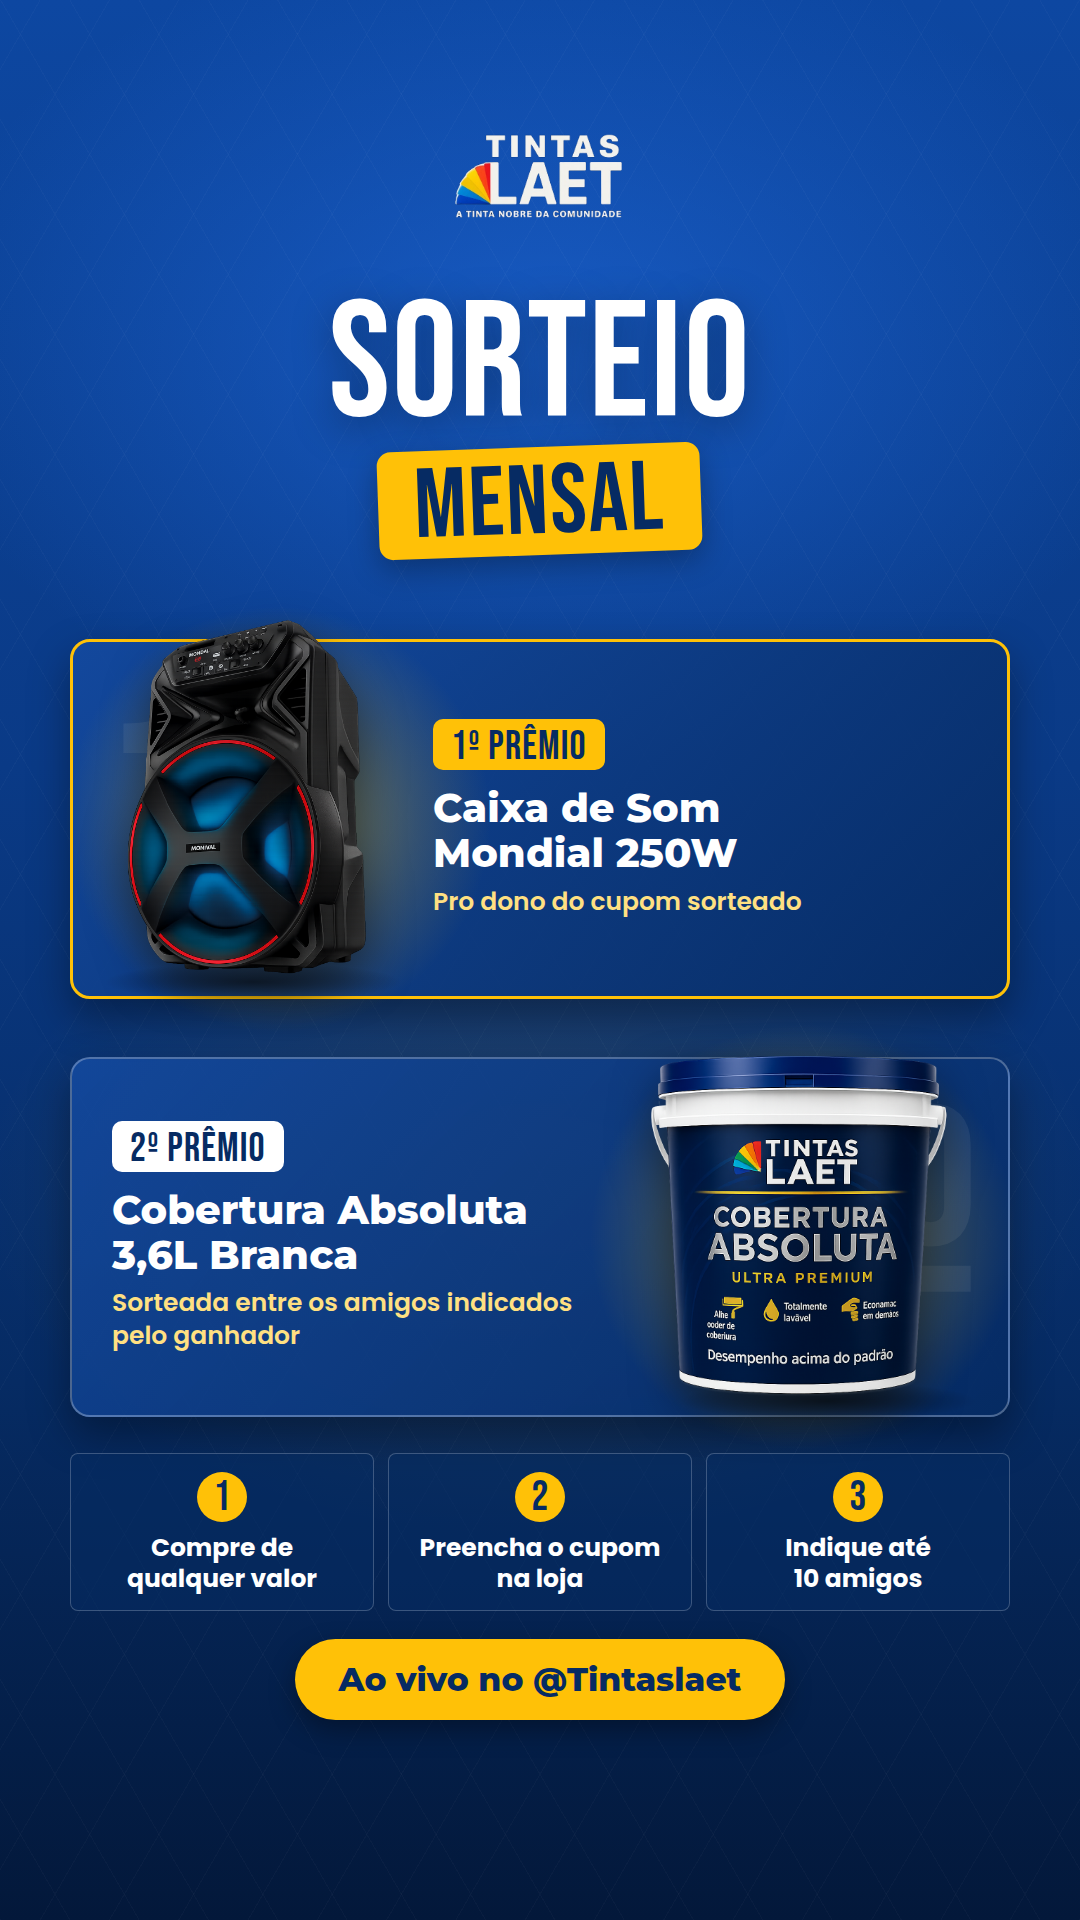
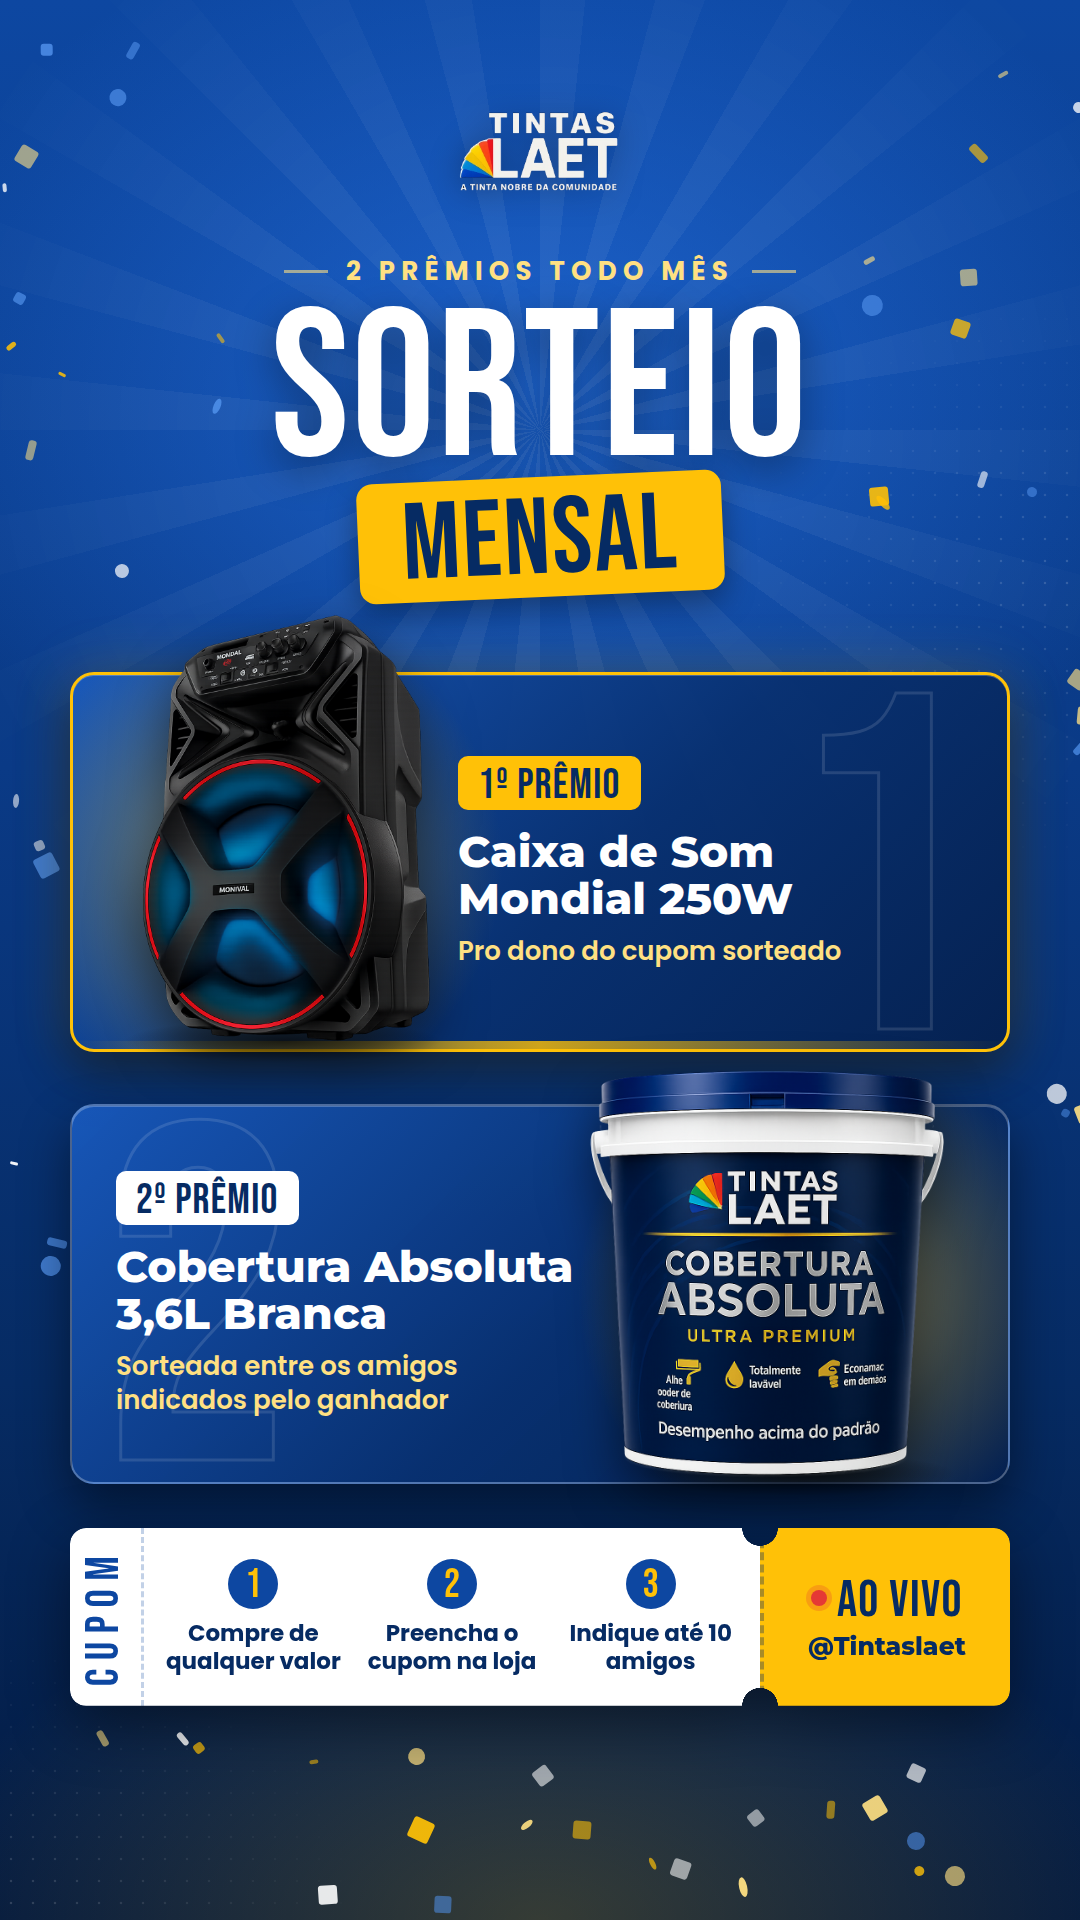
Story do sorteio: design mais preenchido (raios, confete, cupom com canhoto)
Claude-Session: https://claude.ai/code/session_01GERzdKqRwXMVg2X3B1iW2A

diff --git a/marketing/stories/2026-10/06-sorteio-premios/story.html b/marketing/stories/2026-10/06-sorteio-premios/story.html
@@ -12,73 +12,127 @@
 @font-face { font-family:'Poppins'; font-weight:700; src:url('fonts/poppins-latin-700-normal.woff2') format('woff2'); }
 *, *::before, *::after { margin:0; padding:0; box-sizing:border-box; }
 body { background:#020A18; }
-.slide { width:1080px; height:1920px; position:relative; overflow:hidden; color:#fff; display:flex; flex-direction:column; align-items:center; text-align:center;
+.slide { width:1080px; height:1920px; position:relative; overflow:hidden; color:#fff;
   background:
-    radial-gradient(ellipse 900px 600px at 50% 18%, rgba(33,110,230,.55) 0%, rgba(13,71,161,0) 70%),
-    radial-gradient(ellipse 800px 500px at 50% 62%, rgba(255,193,7,.12) 0%, rgba(255,193,7,0) 70%),
-    linear-gradient(180deg, #0D47A1 0%, #0A3A86 40%, #062B63 72%, #03183A 100%); }
-.slide::before { content:''; position:absolute; inset:0; z-index:1;
-  background-image: repeating-linear-gradient(60deg, rgba(255,255,255,.025) 0, rgba(255,255,255,.025) 1px, transparent 1px, transparent 60px),
-                   repeating-linear-gradient(-60deg, rgba(255,255,255,.025) 0, rgba(255,255,255,.025) 1px, transparent 1px, transparent 60px); }
-.slide > * { position:relative; z-index:2; }
-.logo { height:180px; object-fit:contain; margin-top:90px; }
-h1 { font:400 165px/.9 'Bebas Neue',sans-serif; color:#fff; margin-top:22px; text-shadow:0 10px 40px rgba(0,0,0,.35); letter-spacing:.01em; }
-.chip { display:inline-block; margin-top:6px; background:#FFC107; color:#062B63; font:400 98px/1 'Bebas Neue',sans-serif; padding:8px 36px 2px; border-radius:14px; transform:rotate(-2deg); box-shadow:0 10px 30px rgba(0,0,0,.3); letter-spacing:.02em; }
+    radial-gradient(ellipse 950px 700px at 50% 20%, rgba(40,120,240,.6) 0%, rgba(13,71,161,0) 70%),
+    radial-gradient(ellipse 900px 520px at 50% 100%, rgba(255,193,7,.20) 0%, rgba(255,193,7,0) 70%),
+    linear-gradient(180deg, #0D47A1 0%, #0A3A86 40%, #062B63 72%, #031A40 100%); }
+/* raios atrás do título */
+.rays { position:absolute; left:50%; top:430px; width:1900px; height:1900px; transform:translate(-50%,-50%); z-index:1;
+  background:repeating-conic-gradient(from 0deg, rgba(255,255,255,.075) 0deg 6deg, rgba(255,255,255,0) 6deg 15deg);
+  -webkit-mask-image:radial-gradient(circle, #000 0%, rgba(0,0,0,.6) 25%, transparent 50%); mask-image:radial-gradient(circle, #000 0%, rgba(0,0,0,.6) 25%, transparent 50%); }
+.dots { position:absolute; inset:0; z-index:1; opacity:.18;
+  background-image:radial-gradient(rgba(255,255,255,.9) 1.4px, transparent 1.6px); background-size:22px 22px;
+  -webkit-mask-image:radial-gradient(ellipse 520px 420px at 0% 100%, #000 0%, transparent 70%), radial-gradient(ellipse 520px 420px at 100% 30%, #000 0%, transparent 70%);
+          mask-image:radial-gradient(ellipse 520px 420px at 0% 100%, #000 0%, transparent 70%), radial-gradient(ellipse 520px 420px at 100% 30%, #000 0%, transparent 70%); }
+.cf { position:absolute; z-index:2; }
+.abs { position:absolute; z-index:5; }
 
-.prizes { width:940px; margin-top:84px; display:flex; flex-direction:column; gap:58px; }
-.p { position:relative; height:360px; border-radius:20px; background:linear-gradient(135deg, rgba(20,74,160,.85), rgba(6,43,99,.9)); border:2px solid rgba(255,255,255,.28); box-shadow:0 18px 40px rgba(0,0,0,.35); text-align:left; }
-.p.main { border:3px solid #FFC107; }
-.p .ghost { position:absolute; top:10px; font:400 380px/1 'Bebas Neue',sans-serif; color:rgba(255,255,255,.07); pointer-events:none; }
-.p .ring { position:absolute; top:50%; width:430px; height:430px; border-radius:50%; transform:translateY(-50%);
-  background:radial-gradient(circle, rgba(255,193,7,.5) 0%, rgba(255,193,7,.16) 45%, rgba(255,193,7,0) 70%); }
-.p .floor { position:absolute; bottom:-6px; width:300px; height:40px; border-radius:50%; background:radial-gradient(ellipse, rgba(0,0,0,.55) 0%, rgba(0,0,0,0) 70%); }
-.p img { position:absolute; filter:drop-shadow(0 18px 22px rgba(0,0,0,.5)); }
-.p .tx { position:absolute; top:0; bottom:0; display:flex; flex-direction:column; justify-content:center; }
-.tag { align-self:flex-start; background:#FFC107; color:#062B63; font:400 40px/1 'Bebas Neue',sans-serif; padding:8px 18px 3px; border-radius:10px; letter-spacing:.03em; }
-.p.sec .tag { background:#fff; }
-.nm { font:800 40px/1.12 'Montserrat',sans-serif; color:#fff; margin-top:16px; }
-.ds { font:600 25px/1.3 'Poppins',sans-serif; color:#FFE082; margin-top:10px; }
-/* prêmio 1: produto à esquerda */
-.p.main .ghost { left:20px; } .p.main .ring { left:-10px; } .p.main .floor { left:30px; }
-.p.main img { left:30px; top:-72px; height:432px; }
-.p.main .tx { left:360px; right:34px; }
-/* prêmio 2: produto à direita */
-.p.sec .ghost { right:24px; } .p.sec .ring { right:-10px; } .p.sec .floor { right:30px; }
-.p.sec img { right:26px; top:-14px; height:360px; }
-.p.sec .tx { left:40px; right:400px; }
+.top { left:0; right:0; top:70px; display:flex; flex-direction:column; align-items:center; text-align:center; }
+.top .logo { height:170px; object-fit:contain; filter:drop-shadow(0 4px 16px rgba(0,0,0,.35)); }
+.ey { font:700 26px/1 'Poppins',sans-serif; color:#FFE082; letter-spacing:.24em; text-transform:uppercase; display:flex; align-items:center; gap:18px; margin-top:18px; }
+.ey::before,.ey::after { content:''; width:44px; height:3px; background:rgba(255,224,130,.6); }
+h1 { font:400 210px/.86 'Bebas Neue',sans-serif; color:#fff; margin-top:18px; letter-spacing:.01em; text-shadow:0 12px 40px rgba(0,0,0,.4); }
+.chip { margin-top:-6px; background:#FFC107; color:#062B63; font:400 108px/1 'Bebas Neue',sans-serif; padding:10px 44px 2px; border-radius:16px; transform:rotate(-2.5deg); box-shadow:0 12px 30px rgba(0,0,0,.35); letter-spacing:.02em; }
 
-.steps { width:940px; margin-top:36px; display:grid; grid-template-columns:repeat(3,1fr); gap:14px; }
-.st { background:rgba(6,43,99,.55); border:1px solid rgba(255,255,255,.22); border-radius:8px; padding:18px 14px 16px; }
-.st .n { width:50px; height:50px; margin:0 auto; border-radius:50%; background:#FFC107; color:#062B63; font:400 42px/52px 'Bebas Neue',sans-serif; }
-.st .t { font:700 25px/1.25 'Poppins',sans-serif; color:#fff; margin-top:10px; }
-.cta { margin-top:28px; background:#FFC107; color:#062B63; font:800 33px/1 'Montserrat',sans-serif; padding:24px 44px; border-radius:50px; box-shadow:0 10px 26px rgba(0,0,0,.35); white-space:nowrap; }
+.p { left:70px; right:70px; height:380px; border-radius:24px; overflow:visible;
+  background:linear-gradient(135deg, rgba(25,90,190,.92) 0%, rgba(8,48,112,.95) 55%, rgba(5,33,80,.97) 100%);
+  border:2px solid rgba(255,255,255,.28); box-shadow:0 22px 50px rgba(0,0,0,.45), inset 0 1px 0 rgba(255,255,255,.25); }
+.p.main { top:672px; border:3px solid #FFC107; box-shadow:0 22px 50px rgba(0,0,0,.45), 0 0 60px rgba(255,193,7,.18), inset 0 1px 0 rgba(255,255,255,.25); }
+.p.sec { top:1104px; }
+.clip { position:absolute; inset:0; border-radius:22px; overflow:hidden; }
+.ghost { position:absolute; top:-30px; font:400 480px/1 'Bebas Neue',sans-serif; color:transparent; -webkit-text-stroke:3px rgba(255,255,255,.12); }
+.spot { position:absolute; top:50%; width:520px; height:520px; border-radius:50%; transform:translateY(-50%);
+  background:radial-gradient(circle, rgba(255,210,80,.55) 0%, rgba(255,193,7,.2) 38%, rgba(255,193,7,0) 68%); }
+.stripe { position:absolute; bottom:0; height:8px; left:0; right:0; background:linear-gradient(90deg, rgba(255,193,7,0), rgba(255,193,7,.8), rgba(255,193,7,0)); }
+.floor { position:absolute; width:320px; height:44px; border-radius:50%; background:radial-gradient(ellipse, rgba(0,0,0,.6) 0%, rgba(0,0,0,0) 70%); }
+.p img { position:absolute; z-index:3; filter:drop-shadow(0 22px 26px rgba(0,0,0,.55)); }
+.tx { position:absolute; top:0; bottom:0; display:flex; flex-direction:column; justify-content:center; z-index:4; text-align:left; }
+.tag { align-self:flex-start; background:#FFC107; color:#062B63; font:400 42px/1 'Bebas Neue',sans-serif; padding:9px 20px 3px; border-radius:10px; letter-spacing:.03em; }
+.sec .tag { background:#fff; }
+.nm { font:800 44px/1.08 'Montserrat',sans-serif; color:#fff; margin-top:18px; }
+.ds { font:600 26px/1.3 'Poppins',sans-serif; color:#FFE082; margin-top:12px; }
+
+.main .ghost { right:30px; } .main .spot { left:-80px; } .main .floor { left:50px; bottom:-14px; }
+.main img { left:40px; top:-120px; height:520px; }
+.main .tx { left:385px; right:30px; }
+.sec .ghost { left:30px; } .sec .spot { right:-80px; } .sec .floor { right:50px; bottom:-14px; }
+.sec img { right:22px; top:-48px; height:430px; }
+.sec .tx { left:44px; right:420px; }
+
+/* cupom */
+.ticket { left:70px; right:70px; top:1528px; height:178px; display:flex; filter:drop-shadow(0 18px 30px rgba(0,0,0,.45)); }
+.tk-main { flex:1; background:#fff; border-radius:16px 0 0 16px; display:flex; align-items:center; position:relative;
+  -webkit-mask:radial-gradient(circle 18px at 100% 0, transparent 98%, #000) top right/100% 51% no-repeat, radial-gradient(circle 18px at 100% 100%, transparent 98%, #000) bottom right/100% 51% no-repeat;
+          mask:radial-gradient(circle 18px at 100% 0, transparent 98%, #000) top right/100% 51% no-repeat, radial-gradient(circle 18px at 100% 100%, transparent 98%, #000) bottom right/100% 51% no-repeat; }
+.tk-label { width:74px; height:100%; display:flex; align-items:center; justify-content:center; border-right:3px dashed rgba(13,71,161,.25); }
+.tk-label span { transform:rotate(-90deg); font:400 46px/1 'Bebas Neue',sans-serif; color:#0D47A1; letter-spacing:.18em; white-space:nowrap; }
+.tk-steps { flex:1; display:grid; grid-template-columns:repeat(3,1fr); padding:0 10px; }
+.tk-st { text-align:center; padding:0 6px; }
+.tk-st .n { width:50px; height:50px; margin:0 auto; border-radius:50%; background:#0D47A1; color:#FFC107; font:400 40px/53px 'Bebas Neue',sans-serif; }
+.tk-st .t { font:700 23px/1.22 'Poppins',sans-serif; color:#062B63; margin-top:10px; }
+.tk-stub { width:250px; background:#FFC107; border-radius:0 16px 16px 0; border-left:4px dashed rgba(6,43,99,.35); display:flex; flex-direction:column; align-items:center; justify-content:center; text-align:center;
+  -webkit-mask:radial-gradient(circle 18px at 0 0, transparent 98%, #000) top left/100% 51% no-repeat, radial-gradient(circle 18px at 0 100%, transparent 98%, #000) bottom left/100% 51% no-repeat;
+          mask:radial-gradient(circle 18px at 0 0, transparent 98%, #000) top left/100% 51% no-repeat, radial-gradient(circle 18px at 0 100%, transparent 98%, #000) bottom left/100% 51% no-repeat; }
+.live { display:flex; align-items:center; gap:10px; font:400 50px/1 'Bebas Neue',sans-serif; color:#062B63; letter-spacing:.03em; }
+.live i { width:16px; height:16px; border-radius:50%; background:#E53935; box-shadow:0 0 0 5px rgba(229,57,53,.25); margin-top:-6px; }
+.handle { font:800 25px/1 'Montserrat',sans-serif; color:#062B63; margin-top:8px; }
 </style>
 </head>
 <body>
 <div class="slide">
-  <img class="logo" src="../../../../identidade/logotipo branco-remove-bg-io.png" alt="Tintas Laet">
-  <h1>SORTEIO</h1>
-  <div class="chip">MENSAL</div>
+  <div class="rays"></div>
+  <div class="dots"></div>
+  <div id="confete"></div>
 
-  <div class="prizes">
-    <div class="p main">
-      <div class="ghost">1º</div><div class="ring"></div><div class="floor"></div>
-      <img src="caixa.png" alt="Caixa de Som Mondial 250W">
-      <div class="tx"><div class="tag">1º PRÊMIO</div><div class="nm">Caixa de Som<br>Mondial 250W</div><div class="ds">Pro dono do cupom sorteado</div></div>
-    </div>
-    <div class="p sec">
-      <div class="ghost">2º</div><div class="ring"></div><div class="floor"></div>
-      <img src="tinta.png" alt="Tinta Cobertura Absoluta 3,6L">
-      <div class="tx"><div class="tag">2º PRÊMIO</div><div class="nm">Cobertura Absoluta<br>3,6L Branca</div><div class="ds">Sorteada entre os amigos indicados pelo ganhador</div></div>
-    </div>
+  <div class="abs top">
+    <img class="logo" src="../../../../identidade/logotipo branco-remove-bg-io.png" alt="Tintas Laet">
+    <div class="ey">2 prêmios todo mês</div>
+    <h1>SORTEIO</h1>
+    <div class="chip">MENSAL</div>
   </div>
 
-  <div class="steps">
-    <div class="st"><div class="n">1</div><div class="t">Compre de<br>qualquer valor</div></div>
-    <div class="st"><div class="n">2</div><div class="t">Preencha o cupom na loja</div></div>
-    <div class="st"><div class="n">3</div><div class="t">Indique até<br>10 amigos</div></div>
+  <div class="abs p main">
+    <div class="clip"><div class="spot"></div><div class="ghost">1</div><div class="stripe"></div></div>
+    <div class="floor"></div>
+    <img src="caixa.png" alt="Caixa de Som Mondial 250W">
+    <div class="tx"><div class="tag">1º PRÊMIO</div><div class="nm">Caixa de Som<br>Mondial 250W</div><div class="ds">Pro dono do cupom sorteado</div></div>
   </div>
-  <div class="cta">Ao vivo no @Tintaslaet</div>
+
+  <div class="abs p sec">
+    <div class="clip"><div class="spot"></div><div class="ghost">2</div></div>
+    <div class="floor"></div>
+    <img src="tinta.png" alt="Tinta Cobertura Absoluta 3,6L">
+    <div class="tx"><div class="tag">2º PRÊMIO</div><div class="nm">Cobertura Absoluta<br>3,6L Branca</div><div class="ds">Sorteada entre os amigos indicados pelo ganhador</div></div>
+  </div>
+
+  <div class="abs ticket">
+    <div class="tk-main">
+      <div class="tk-label"><span>CUPOM</span></div>
+      <div class="tk-steps">
+        <div class="tk-st"><div class="n">1</div><div class="t">Compre de qualquer valor</div></div>
+        <div class="tk-st"><div class="n">2</div><div class="t">Preencha o cupom na loja</div></div>
+        <div class="tk-st"><div class="n">3</div><div class="t">Indique até 10 amigos</div></div>
+      </div>
+    </div>
+    <div class="tk-stub"><div class="live"><i></i>AO VIVO</div><div class="handle">@Tintaslaet</div></div>
+  </div>
 </div>
+<script>
+  const cores=['#FFC107','#FFE082','#FFFFFF','#4F8FE8'];
+  let s=41; const r=()=>{s=(s*9301+49297)%233280;return s/233280;};
+  const c=document.getElementById('confete');
+  let n=0, tries=0;
+  while(n<56 && tries<4000){ tries++;
+    const x=r()*1080, y=20+r()*1880;
+    const livre = (y<640 && (x<230 || x>850)) || (y>=640 && y<1500 && (x<60 || x>1020)) || (y>1730);
+    if(!livre) continue;
+    const d=document.createElement('div'); d.className='cf';
+    const w=8+r()*14, h=w*(r()<.5?.42:1);
+    Object.assign(d.style,{left:x+'px',top:y+'px',width:w+'px',height:h+'px',background:cores[n%4],
+      transform:`rotate(${r()*180}deg)`,opacity:.5+r()*.45,borderRadius:r()<.3?'50%':'3px'});
+    c.appendChild(d); n++;
+  }
+</script>
 </body>
 </html>
